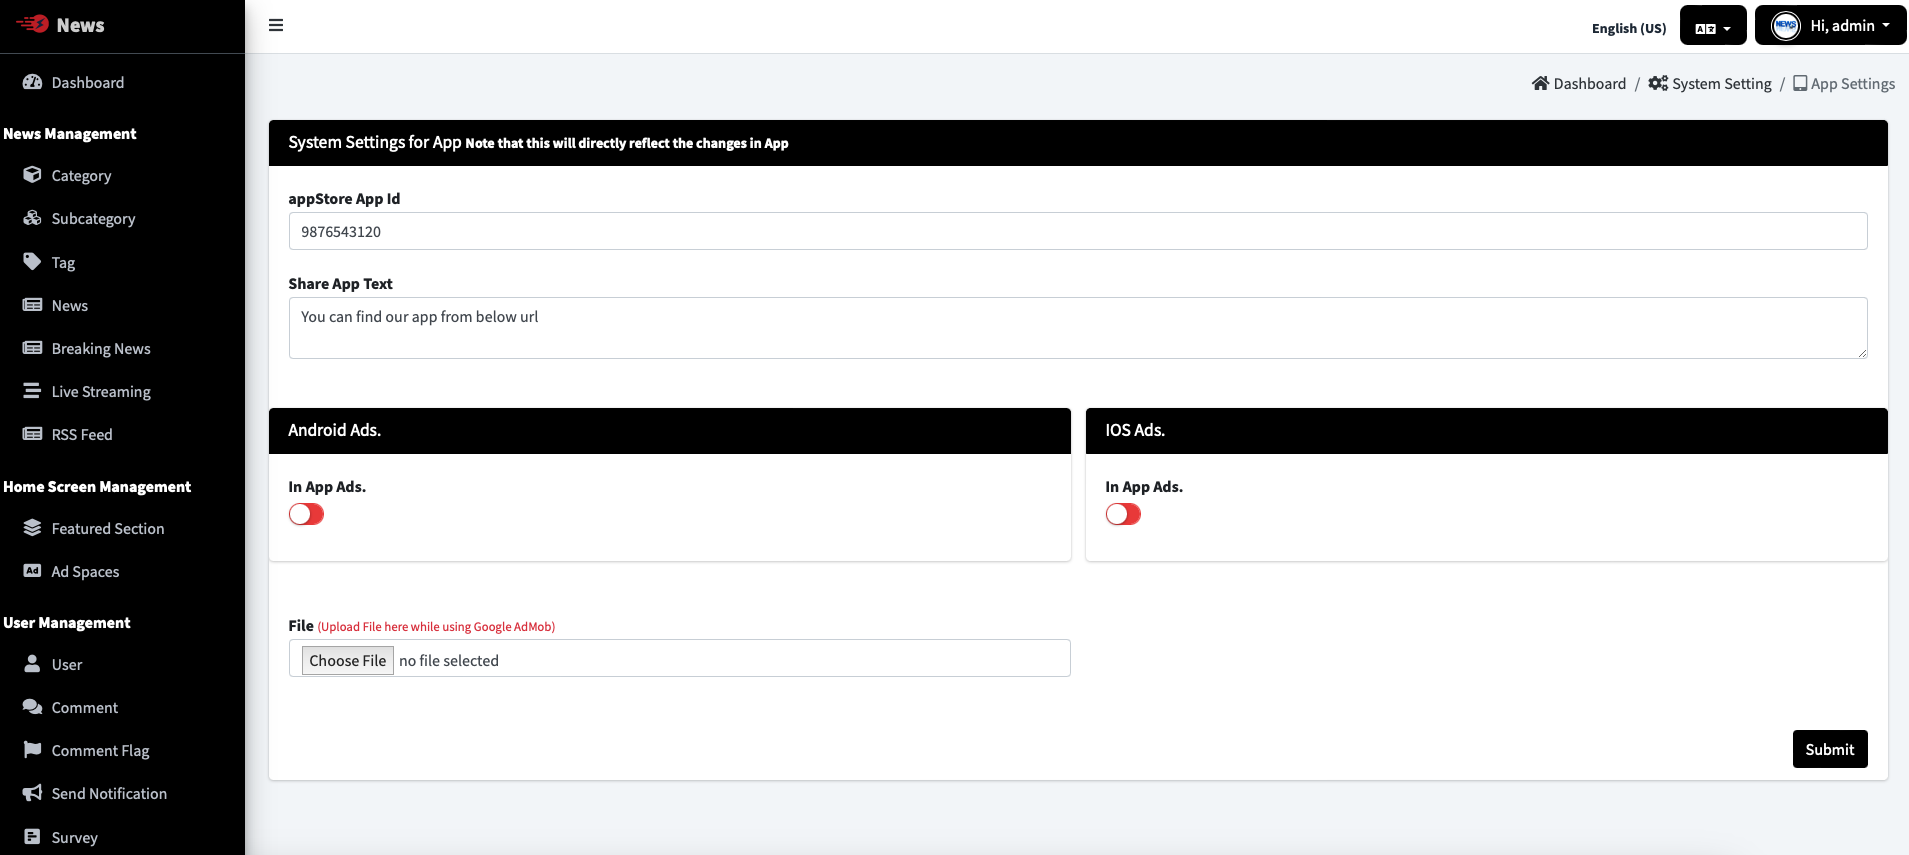
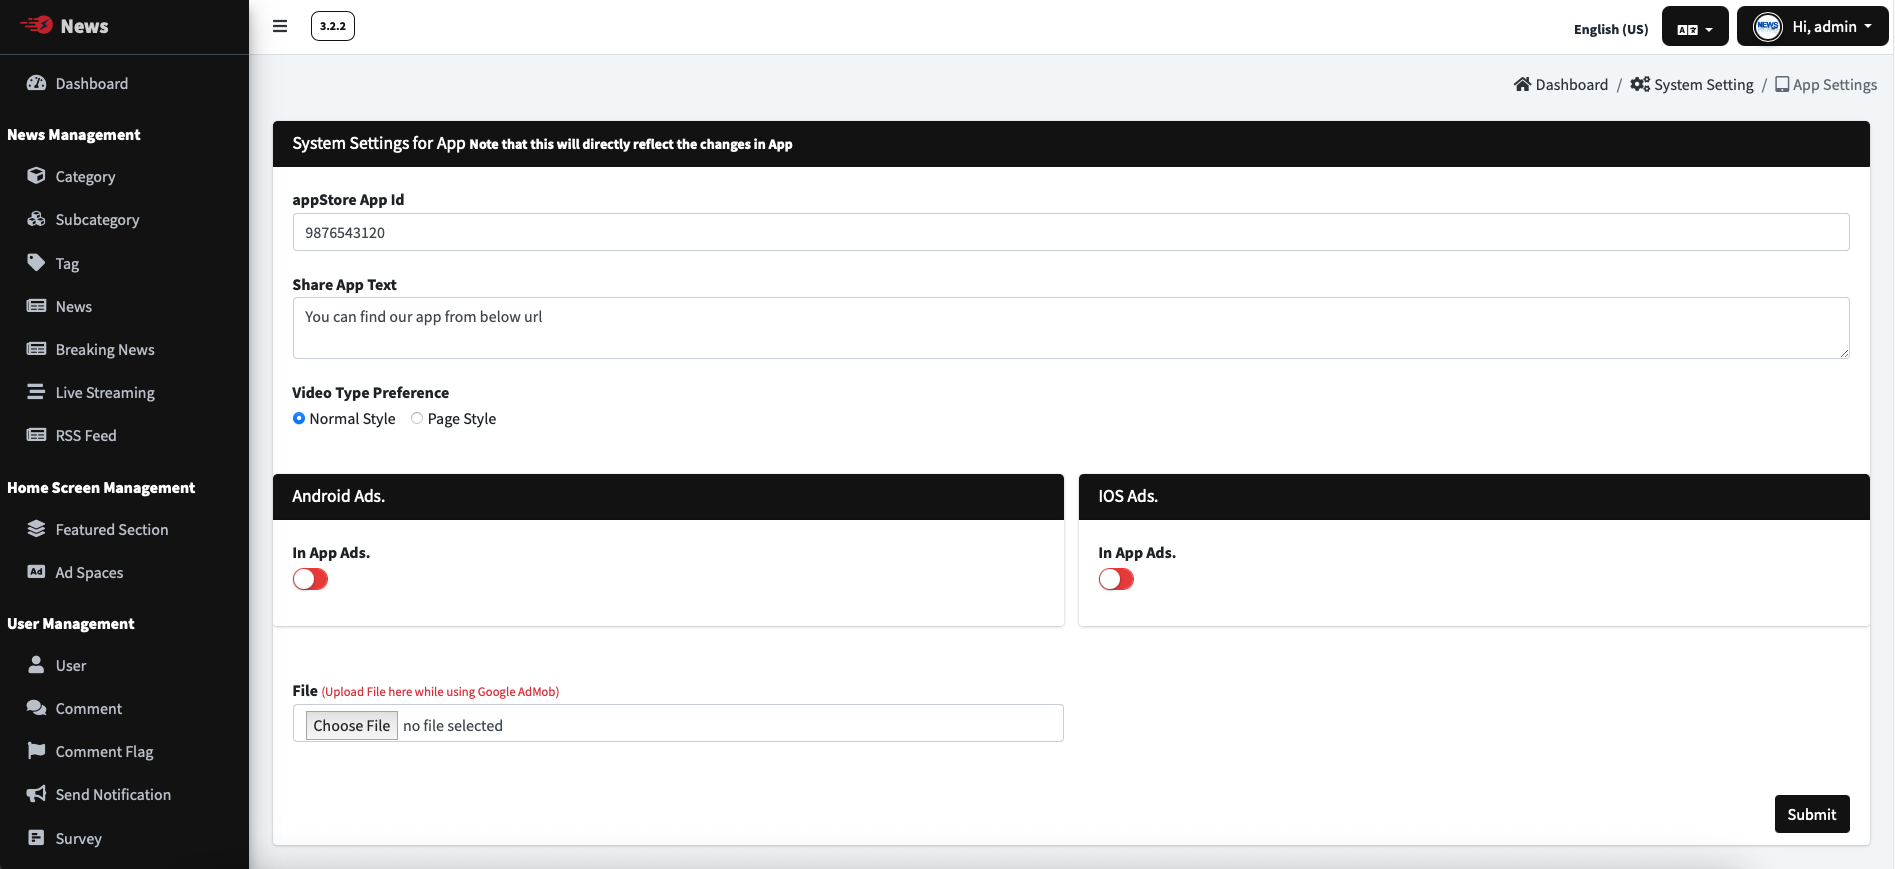
App : added setting option for video preference

diff --git a/sidebars.js b/sidebars.js
@@ -58,6 +58,7 @@ const sidebars = {
         "app/package-name",
         "app/asset-image",
         "app/font",
+        // "app/video-preference",
         "app/server-url",
         "app/settings",
         "app/create-fcm",
@@ -68,12 +69,12 @@ const sidebars = {
         "app/apple-fcm",
         "app/fcm",
         "app/share-news",
-        "app/admob", 
+        "app/admob",
         "app/unity-ad",
         "app/ads-interval",
         "app/limit",
         "app/api",
-	"app/add-gemini-api-key-in-app",
+        "app/add-gemini-api-key-in-app",
         "app/change-lang",
         "app/apk",
         "app/app-bundle",

diff --git a/docs/app/settings.md b/docs/app/settings.md
@@ -26,6 +26,7 @@ To configure system settings for your News App:
 
    - **App Store App ID**: ID used when sharing app links
    - **Share App Text**: Text to be added when sharing news from the application
+   - **Video Type Preference**: Admin controls video layout for App – Normal or Page / Reels Type
 
    ![Settings Page 3](/images/app/settings3.png)
 

diff --git a/docs/app/video-preference.md b/docs/app/video-preference.md
@@ -1,0 +1,9 @@
+---
+sidebar_position: 18
+---
+
+# Set Video Style Preference For App
+
+1. In the Admin Panel, Settings > App Settings
+ 
+2. Select the type of News Videos you want
